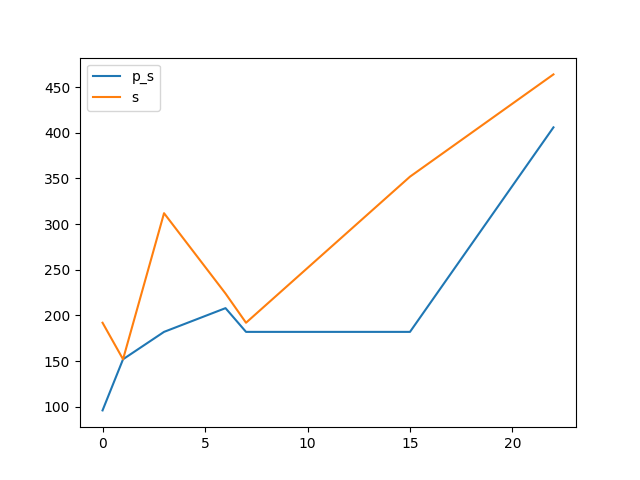
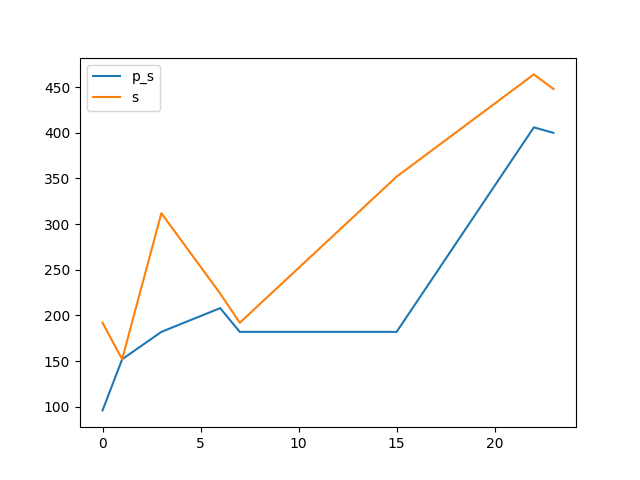
0x0017

diff --git a/benchmark.md b/benchmark.md
@@ -16,16 +16,18 @@
 
 [INFO] Synthesising NPN Class=6 TruthTable:0x0016 pexact:406 r=6 exact:464 r=5 time=64.09min 
 
+[INFO] Synthesising NPN Class=7 TruthTable:0x0017 pexact:400 r=6 exact:448 r=5 time=115.74min 
+
 ```mermaid
 xychart-beta
     title "Comparison powertwoexact twoexact"
-    x-axis [0, 1, 3, 6, 7, 15, 22]
+    x-axis [0, 1, 3, 6, 7, 15, 22, 23]
     y-axis "Switching Activity" 0-->464
-    line [96, 152, 182, 208, 182, 182, 406]
-    line [192, 152, 312, 224, 192, 352, 464]
-    line [201.14285714285714, 201.14285714285714, 201.14285714285714, 201.14285714285714, 201.14285714285714, 201.14285714285714, 201.14285714285714]
-    line [269.7142857142857, 269.7142857142857, 269.7142857142857, 269.7142857142857, 269.7142857142857, 269.7142857142857, 269.7142857142857]
-    bar [80, 60, 80, 80, 80, 80, 120]
-    bar [80, 60, 80, 60, 60, 80, 100]
+    line [96, 152, 182, 208, 182, 182, 406, 400]
+    line [192, 152, 312, 224, 192, 352, 464, 448]
+    line [226.0, 226.0, 226.0, 226.0, 226.0, 226.0, 226.0, 226.0]
+    line [292.0, 292.0, 292.0, 292.0, 292.0, 292.0, 292.0, 292.0]
+    bar [80, 60, 80, 80, 80, 80, 120, 120]
+    bar [80, 60, 80, 60, 60, 80, 100, 100]
 ```
 
